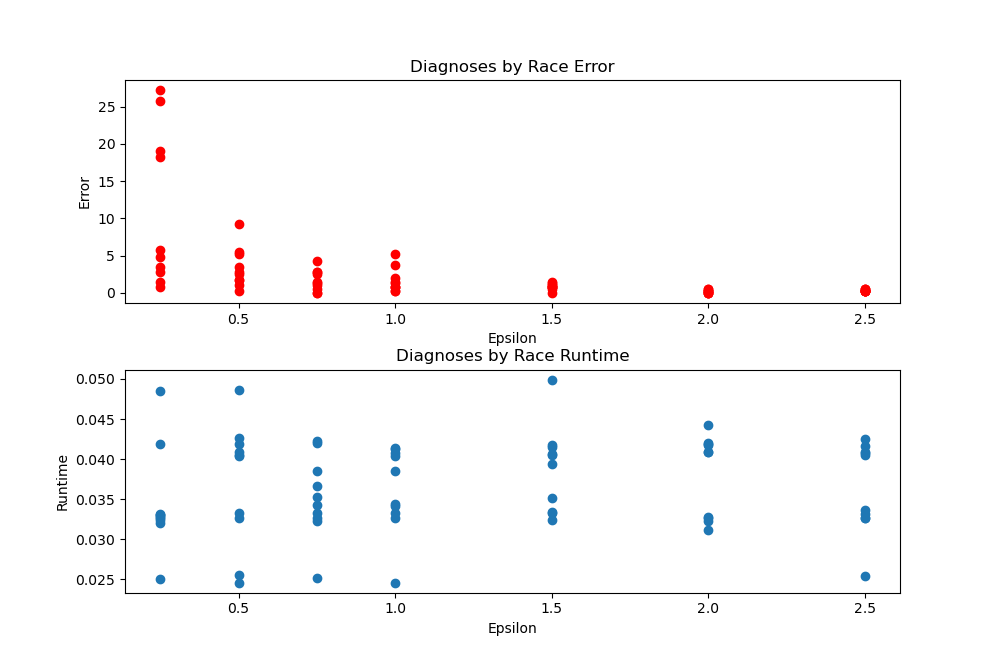
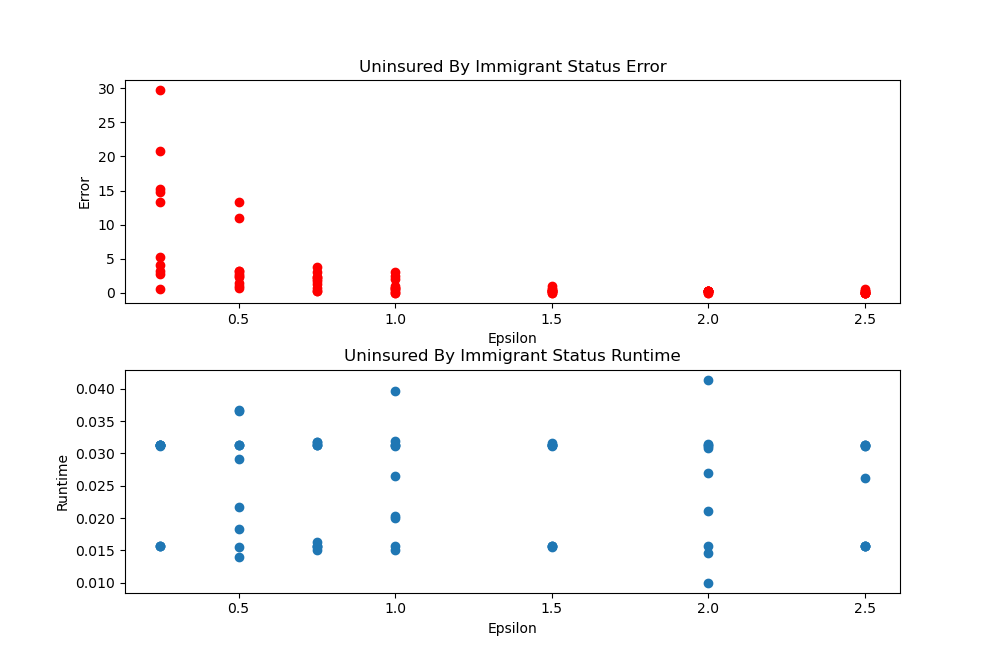
fix graph titles

diff --git a/queryErrorAndRuntime.py b/queryErrorAndRuntime.py
@@ -241,14 +241,14 @@ def get_uninsured():
 
     plt.xlabel('Epsilon')
     plt.ylabel('Error')
-    plt.title('Diagnoses by Race Error')
+    plt.title('Uninsured By Immigrant Status Error')
 
     plt.subplot(212)
     plt.scatter(plotted_epsilon_list, runtime_list)
     
     plt.xlabel('Epsilon')
     plt.ylabel('Runtime')
-    plt.title('Diagnoses by Race Runtime')
+    plt.title('Uninsured By Immigrant Status Runtime')
     
     plt.subplots_adjust(hspace=0.3)
     plt.show()
@@ -298,14 +298,14 @@ def get_insurance_type():
 
     plt.xlabel('Epsilon')
     plt.ylabel('Error')
-    plt.title('Diagnoses by Race Error')
+    plt.title('Insurance Type by Gender and Marital Status Error')
 
     plt.subplot(212)
     plt.scatter(plotted_epsilon_list, runtime_list)
     
     plt.xlabel('Epsilon')
     plt.ylabel('Runtime')
-    plt.title('Diagnoses by Race Runtime')
+    plt.title('Insurance Type by Gender and Marital Status Runtime')
     
     plt.subplots_adjust(hspace=0.3)
     plt.show()
